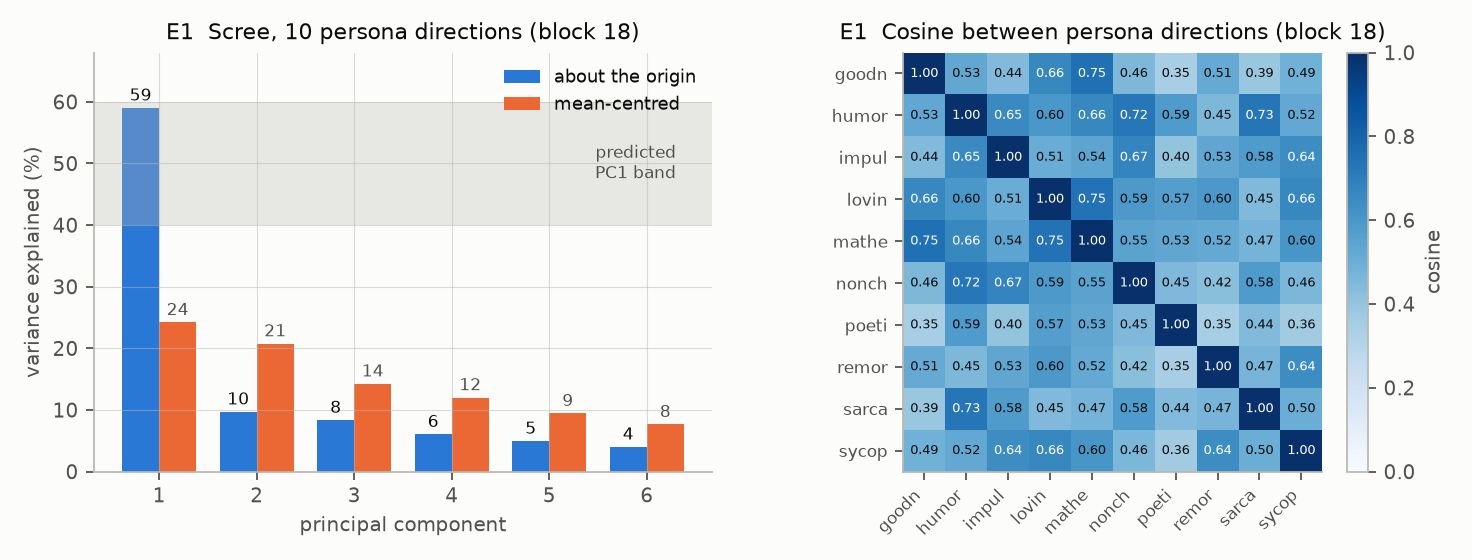
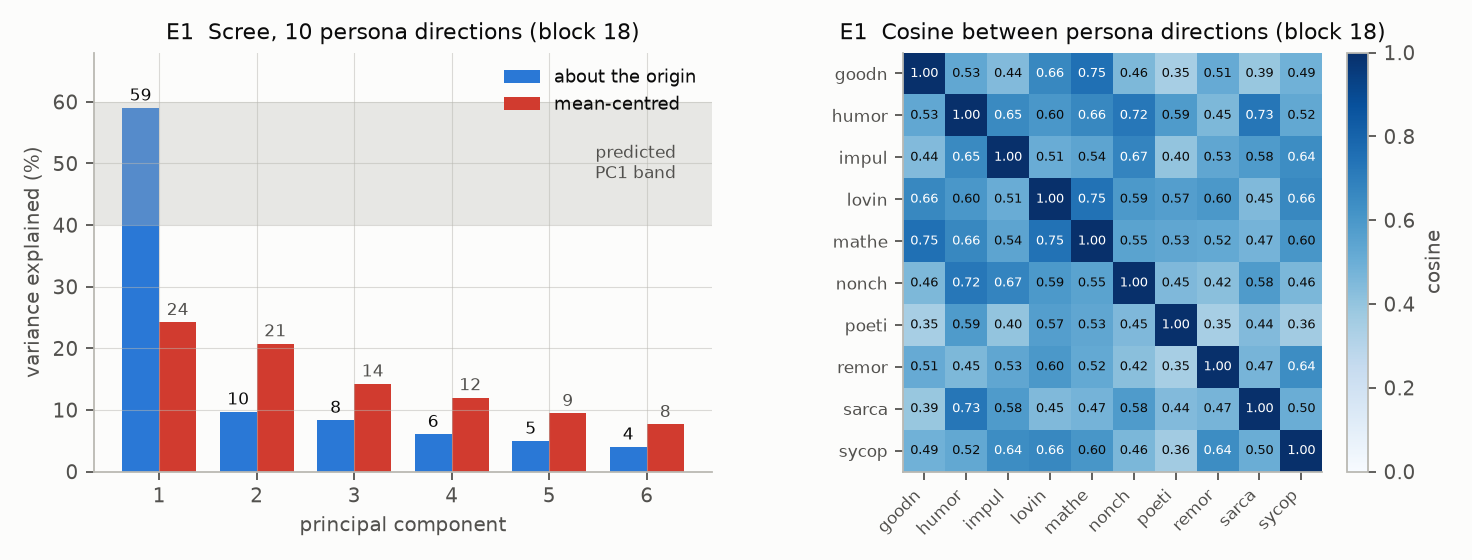
Figures: committed style restored with red in the second palette slot (D-R28); CI and count-label additions kept

diff --git a/chardiff/figures.py b/chardiff/figures.py
@@ -19,7 +19,8 @@ RES = ROOT / "results"
 FIG = RES / "figures"
 FIG.mkdir(parents=True, exist_ok=True)
 
-C1, C2, C3 = "#2a78d6", "#eb6834", "#1baf7a"     # blue, orange, aqua
+C1, C2, C3 = "#2a78d6", "#d13b2f", "#1baf7a"     # blue, red, aqua  (red replaced the orange
+                                                  # slot on 2026-09-04, user choice, D-R28)
 INK, INK2, MUTED = "#0b0b0b", "#52514e", "#b9b8b2"
 SURFACE = "#fcfcfb"
 
@@ -35,8 +36,8 @@ plt.rcParams.update({
 TABLES = []
 
 
-# ---------------------------------------------------------------- j-space-mech style
-# Conventions taken from /workspace/j-space-mech/scripts/figures.py (cloned from GitHub on
+# ---------------------------------------------------------------- CI / count-label helpers
+# (History: conventions were taken from /workspace/j-space-mech/scripts/figures.py (cloned from GitHub on
 # 2026-09-04, DECISIONS D-R27): a two-colour ROLE palette named in a comment, grey for
 # controls, green/red for pass/fail; dpi 150, font 9, top/right spines off, faint grid, white
 # ground; one simple figure per experiment, titled "E7  <claim>\n<qualifier with the key number
@@ -45,13 +46,12 @@ TABLES = []
 # right-aligned label. Applied, via rc_context, only to the figures whose data changed in the
 # regeneration (the three E7 figures); everything else keeps the committed style until a
 # separate pass.
-J_B, J_A = "#1F5FA8", "#B0641E"               # behaviour, self-description
-J_G, J_OK, J_NO = "#9A9A9A", "#1a7", "#B00"   # controls / base, pass, fail
-JSTYLE = {"figure.dpi": 150, "font.size": 9, "axes.spines.top": False, "axes.spines.right": False,
-          "axes.grid": True, "grid.alpha": .25, "grid.linewidth": .5, "grid.color": "#888",
-          "figure.facecolor": "white", "axes.facecolor": "white", "legend.frameon": False,
-          "axes.edgecolor": "#333", "xtick.color": "#333", "ytick.color": "#333",
-          "text.color": "#111", "axes.labelcolor": "#333", "axes.titlecolor": "#111"}
+# 2026-09-04: the j-space palette/rc was tried on the three E7 figures and the user chose the
+# committed style (with red for the second slot) instead -- D-R28. The role names and the
+# CI / count-label machinery below are kept; the style override is now the module style.
+J_B, J_A = C1, C2                             # behaviour, self-description
+J_G, J_OK, J_NO = MUTED, "#1a7", "#B00"       # controls / base, pass, fail
+JSTYLE = {}                                   # empty: rc_context(JSTYLE) is the module style
 
 
 def boot(v, n=10000, seed=0):
@@ -75,9 +75,9 @@ def _net_ci(per_item):
 
 def _jsave(fig, name, title, top=1.0):
     fig.tight_layout(rect=(0, 0, 1, top))
-    fig.savefig(FIG / f"{name}.png", dpi=150, facecolor="white")
+    fig.savefig(FIG / f"{name}.png", dpi=160, facecolor=SURFACE)
     plt.close(fig)
-    print(f"  {name}.png   {title}   [j-space style]")
+    print(f"  {name}.png   {title}")
 
 
 
@@ -619,7 +619,7 @@ def fig_e7():
         for i, (b, sv) in enumerate(zip(beh, slf)):
             ax.text(i - w / 2, b + (1.5 if b >= 0 else -5), f"{b:.0f}%", ha="center", fontsize=7.5)
             ax.text(i + w / 2, sv + (1.5 if sv >= 0 else -5), f"{sv:.0f}%", ha="center", fontsize=7.5)
-        ax.axhline(0, color="k", lw=.6)
+        ax.axhline(0, color=INK2, lw=.8)
         # the pre-declared regression window for the d_DPO behaviour number (restartprompt rule 7)
         ax.axhspan(55, 75, color=J_B, alpha=.08, lw=0)
         ax.text(-.45, 76.5, "regression window 55-75% (d_DPO behaviour, Likert)",
@@ -751,7 +751,7 @@ def fig_e7_pairwise():
                 ax.text(i + w / 2, (S[i][2] + 3) if S[i][0] >= 0 else (S[i][0] - 8), ts, ha="center", fontsize=6.5, color=J_A)
                 rows.append([p, lab, f"{B[i][0]:+.0f}% [{B[i][1]:+.0f}, {B[i][2]:+.0f}]", tb,
                              f"{S[i][0]:+.0f}% [{S[i][1]:+.0f}, {S[i][2]:+.0f}]", ts])
-            ax.axhline(0, color="k", lw=.6)
+            ax.axhline(0, color=INK2, lw=.8)
             ax.set_xticks(x); ax.set_xticklabels([lab for _, lab in arms])
             i_dpo = 1
             ax.set_title(f"{p}\nd_DPO ablated: behaviour {B[i_dpo][0]:+.0f}%, self-description {S[i_dpo][0]:+.0f}%",
@@ -829,7 +829,7 @@ def fig_rankk():
                              "—" if not B[i] else counts(a, "beh_vs_trained"),
                              f"{S[i][0]:+.0f}% [{S[i][1]:+.0f}, {S[i][2]:+.0f}]", counts(a, "self_vs_trained"),
                              f"{T['trait_words_per_100']:.2f}", f"{T['capability']:.2f}"])
-            ax.axhline(0, color="k", lw=.6)
+            ax.axhline(0, color=INK2, lw=.8)
             ax.set_xticks(x); ax.set_xticklabels([lab for _, lab in arms], rotation=30, ha="right", fontsize=8)
             ax.set_ylim(-60, 140)
             ax.set_title(f"{p}\nrank-10: beh {B[2][0]:+.0f}%, self {S[2][0]:+.0f}%   |   v_probe: self {S[3][0]:+.0f}%",
